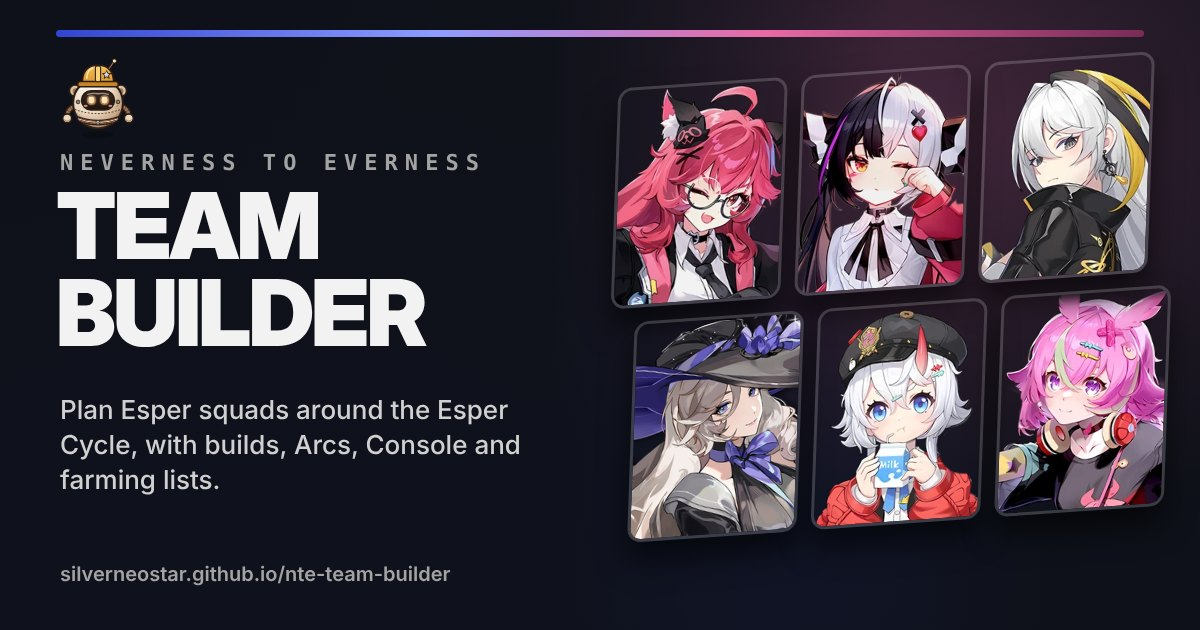
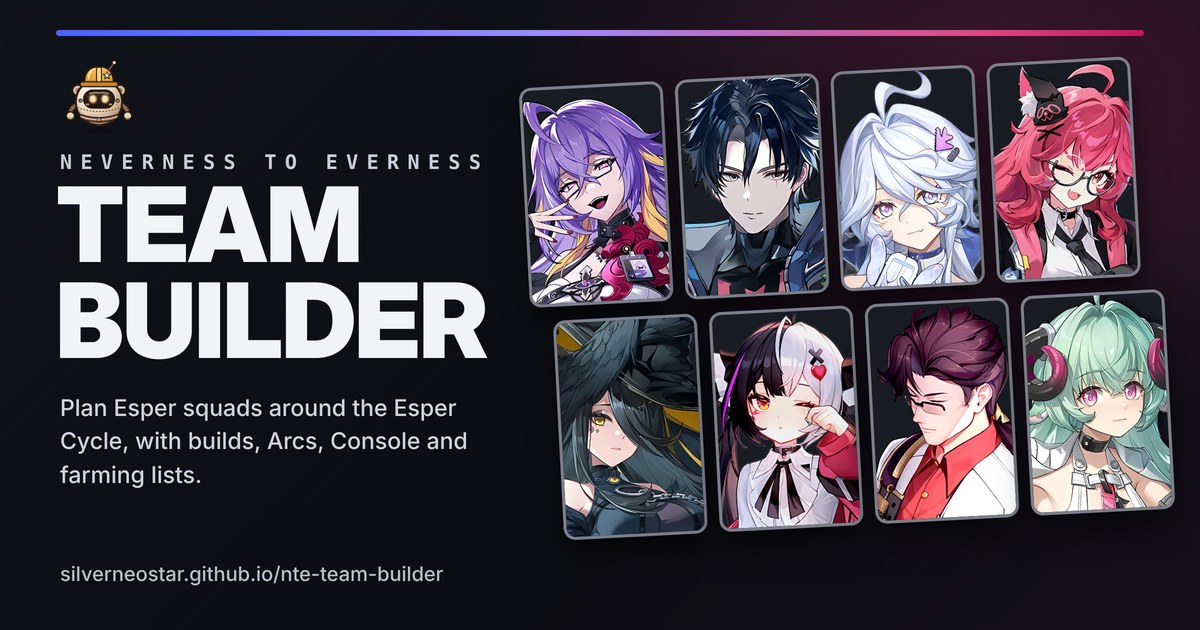
Link preview image: two full teams of four (Fadia, Chaos, Elyms, Nanally; Blackbird, Lacrimosa, Adler, Iroi); versioned so sites fetch the new one
Claude-Session: https://claude.ai/code/session_01THnzwembB6ikRgs4A7xnwB

diff --git a/index.html b/index.html
@@ -25,7 +25,7 @@
       content="Free fan-made team builder for Neverness to Everness: plan Esper squads around the Esper Cycle, gear characters with Arcs and Cartridges, track achievements and share teams as images."
     />
     <meta property="og:url" content="https://silverneostar.github.io/nte-team-builder/" />
-    <meta property="og:image" content="https://silverneostar.github.io/nte-team-builder/og-image.jpg" />
+    <meta property="og:image" content="https://silverneostar.github.io/nte-team-builder/og-image.jpg?v=2" />
     <meta property="og:image:width" content="1200" />
     <meta property="og:image:height" content="630" />
     <meta property="og:image:alt" content="NTE Team Builder: plan Esper squads, builds and farming" />
@@ -38,7 +38,7 @@
       name="twitter:description"
       content="Free fan-made team builder for Neverness to Everness: plan Esper squads around the Esper Cycle, gear characters with Arcs and Cartridges, track achievements and share teams as images."
     />
-    <meta name="twitter:image" content="https://silverneostar.github.io/nte-team-builder/og-image.jpg" />
+    <meta name="twitter:image" content="https://silverneostar.github.io/nte-team-builder/og-image.jpg?v=2" />
     <meta name="twitter:image:alt" content="NTE Team Builder: plan Esper squads, builds and farming" />
     <!-- Tells search engines this is a free web app for the game -->
     <script type="application/ld+json">
